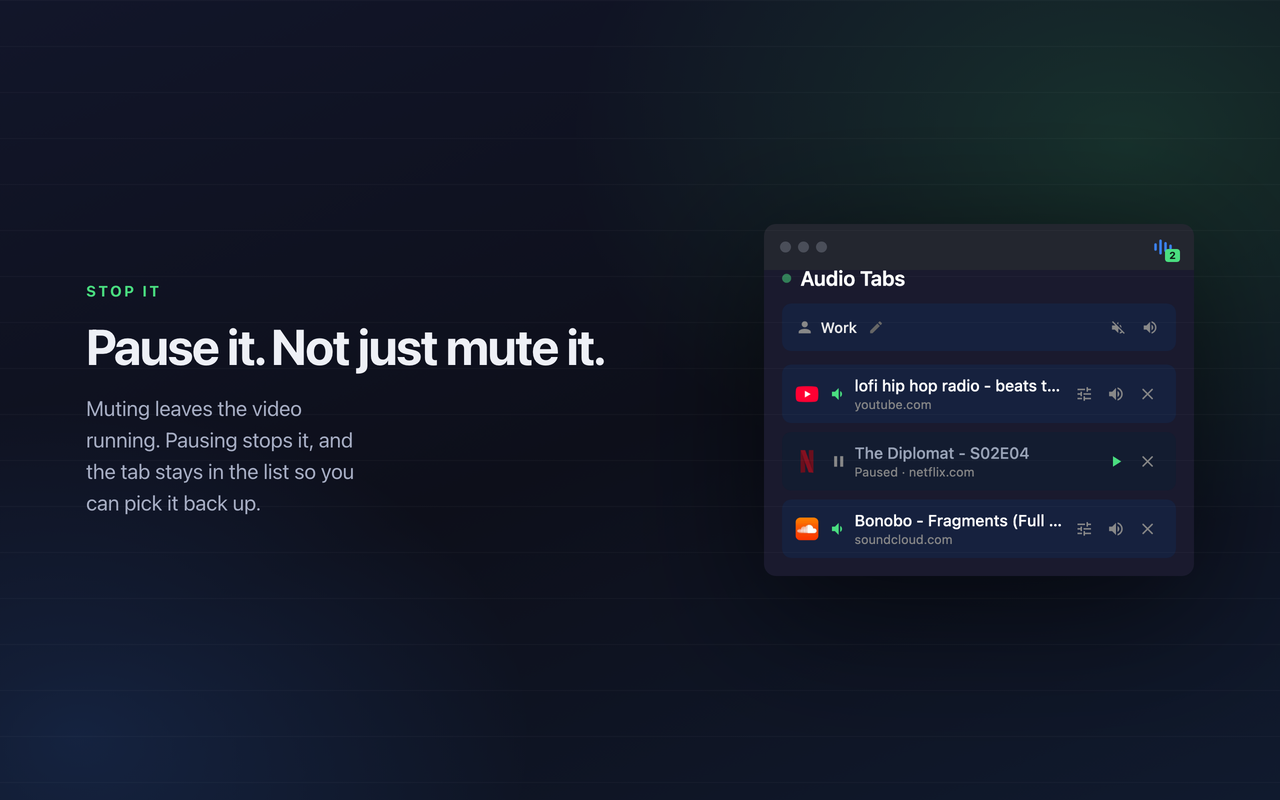
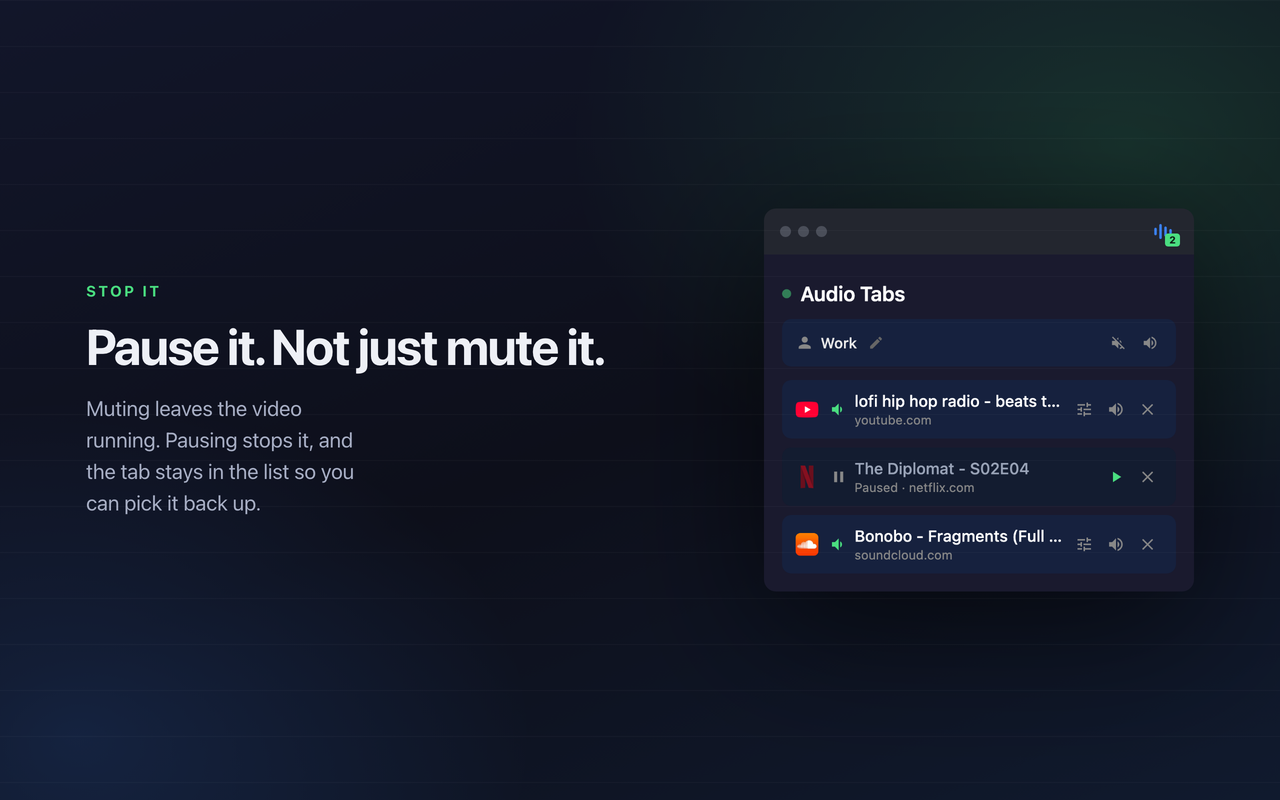
fix(promo): stop the trim from eating the popup's padding
The screenshots rendered the popup on a transparent page and trimmed the
empty area away with `magick -trim`. Trim takes its reference colour from
a corner pixel, and the container paints its own background out to the
edge — so the reference was the container's own navy and the trim stripped
its padding along with the empty area. Raising .container's top padding to
24px therefore changed nothing in the output: the extra pixels were being
removed as fast as they were added.

The page now renders on magenta, a colour that appears nowhere in the
popup, so the trim can only remove page background. Verified: rows 0-80 of
the render are pure container background, which is the 24px padding at 3x
plus the title's leading.

This also reverts the gap that was opened between the toolbar and the
popup while chasing the symptom. They read as one object again, because
the actual fix is upstream of the composition.

diff --git a/scripts/promo/gen-frames.js b/scripts/promo/gen-frames.js
@@ -94,7 +94,11 @@ const shell = (body) => `<!doctype html>
 <html lang="en"><head><meta charset="utf-8">
 <link rel="stylesheet" href="file://${ROOT}/popup.css">
 <style>
-  html, body { background: transparent; }
+  /* A colour the popup never uses, so the trim step has an unambiguous
+     reference. Trimming against transparency took the corner pixel from the
+     container itself and stripped its padding along with the empty area,
+     which silently cancelled out any change to .container's padding. */
+  html, body { background: #ff00ff; }
   body { width: 380px; }
   /* Chrome renders a native range track headlessly; pin the fill so the
      slider reads at a glance the way it does in the live popup. */

diff --git a/scripts/promo/gen-promo.js b/scripts/promo/gen-promo.js
@@ -58,7 +58,10 @@ const BASE_CSS = `
   }
   .sub { font-size: 21px; line-height: 1.5; color: #a7aec4; max-width: 22ch; }
 
-  /* the popup shown the way it actually appears: hanging off the toolbar */
+  /* Toolbar and popup read as one object, the way they do on screen. They were
+     briefly split apart to buy the title some air; the real culprit was the
+     trim eating the popup's padding, so the split only made the bar look
+     detached. */
   .browser { width: var(--w); filter: drop-shadow(0 34px 70px rgba(0,0,0,0.62)); }
   .toolbar {
     height: 46px;
